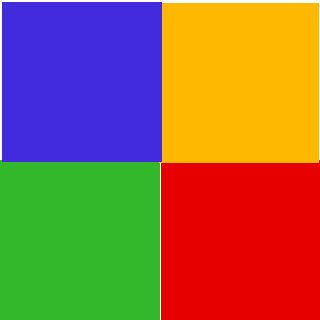
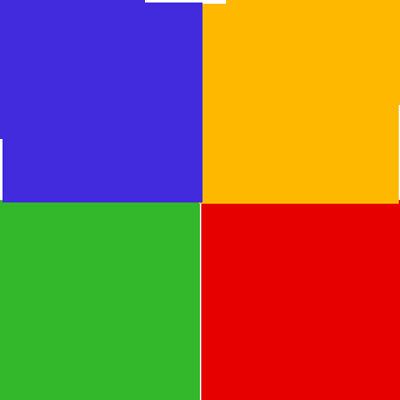
Hardware Integration Complete

Changed region(s): [[0.0, 0.0, 1.0, 1.0], [0.9688, 0.25, 1.0, 0.5312]]

diff --git a/cubeCns.py b/cubeCns.py
@@ -30,40 +30,41 @@ def matrixForm(Arduino) :
         camera.set(4,640)	#Width
 
         #Discard The First Few Frames
-        for i in range(0,5) :
+        for i in range(0,10) :
             retval,image = camera.read()
         del(camera)
         image = cv2.rotate(image,cv2.ROTATE_90_COUNTERCLOCKWISE)
-        cv2.imwrite(side + '_1raw.jpg',image)
+        image = image[100:500,40:440]
+        cv2.imwrite(side + '_raw.jpg',image)
 
-        image = cv2.imread(side + '_raw.jpg')
+        #image = cv2.imread(side + '_raw.jpg')
         b_ave=[float(0), float(0), float(0), float(0)]
         g_ave=[float(0), float(0), float(0), float(0)]
         r_ave=[float(0), float(0), float(0), float(0)]
 
-        for x in range(80,120) :
-            for y in range(80,120) :
-                b_ave[1]= b_ave[1] + (float(image[x, y, 0])/1600)
-                g_ave[1]= g_ave[1] + (float(image[x, y, 1])/1600)
-                r_ave[1]= r_ave[1] + (float(image[x, y, 2])/1600)
+        for x in range(0,100) :
+            for y in range(0,100) :
+                b_ave[1]= b_ave[1] + (float(image[x, y, 0])/10000)
+                g_ave[1]= g_ave[1] + (float(image[x, y, 1])/10000)
+                r_ave[1]= r_ave[1] + (float(image[x, y, 2])/10000)
 
-        for x in range(200,240) :
-            for y in range(80,120) :
-                b_ave[0]= b_ave[0] + (float(image[x, y, 0])/1600)
-                g_ave[0]= g_ave[0] + (float(image[x, y, 1])/1600)
-                r_ave[0]= r_ave[0] + (float(image[x, y, 2])/1600)
+        for x in range(300,400) :
+            for y in range(0,100) :
+                b_ave[0]= b_ave[0] + (float(image[x, y, 0])/10000)
+                g_ave[0]= g_ave[0] + (float(image[x, y, 1])/10000)
+                r_ave[0]= r_ave[0] + (float(image[x, y, 2])/10000)
 
-        for x in range(80,120) :
-            for y in range(200,240) :
-                b_ave[3]= b_ave[3] + (float(image[x, y, 0])/1600)
-                g_ave[3]= g_ave[3] + (float(image[x, y, 1])/1600)
-                r_ave[3]= r_ave[3] + (float(image[x, y, 2])/1600)
+        for x in range(0,100) :
+            for y in range(300,400) :
+                b_ave[3]= b_ave[3] + (float(image[x, y, 0])/10000)
+                g_ave[3]= g_ave[3] + (float(image[x, y, 1])/10000)
+                r_ave[3]= r_ave[3] + (float(image[x, y, 2])/10000)
                 
-        for x in range(200,240) :
-            for y in range(200,240) :
-                b_ave[2]= b_ave[2] + (float(image[x, y, 0])/1600)
-                g_ave[2]= g_ave[2] + (float(image[x, y, 1])/1600)
-                r_ave[2]= r_ave[2] + (float(image[x, y, 2])/1600)
+        for x in range(300,400) :
+            for y in range(300,400) :
+                b_ave[2]= b_ave[2] + (float(image[x, y, 0])/10000)
+                g_ave[2]= g_ave[2] + (float(image[x, y, 1])/10000)
+                r_ave[2]= r_ave[2] + (float(image[x, y, 2])/10000)
 
         for i in range(0,4):
             sort[i/2][i%2][1][0] = [b_ave[i], g_ave[i], r_ave[i]]
@@ -139,9 +140,14 @@ def matrixForm(Arduino) :
     # Rotate the cube to bring each side in front of the Camera.
     for side in cube_sides :
         print side
+
+        #Correctly Position The Cube
+        #For Up, Cube is already positioned with side grippers
+        if side != 'Up' :
+            if send_Ard(18)==0:
+                return
+        
         capt_proc(side)
-        #print mat[0][1][1][0], '  ', mat[1][1][1][0]
-        #print mat[0][0][1][0], '  ', mat[1][0][1][0], '\n'
         if side != 'Up' and side != 'Down':
             cubeRot.full('up', 1, mat)
             cubeRot.full('up', 1, sort)
@@ -171,12 +177,13 @@ def matrixForm(Arduino) :
             cubeRot.full('left', -1, sort)
             if send_Ard(2)==0:
                 return
-        #print mat[0][0][0][2], '  ', mat[0][0][1][2]
-        #print mat[1][0][0][2], '  ', mat[1][0][1][2], '\n'
-        print "Next\n"
+        #print "Next\n"
 
 
-    print sort
+    if send_Ard(18)==0:
+        return
+    #print sort
+
 
     # Group 5 colours of the cube
     for i in range (0,5) :
@@ -193,9 +200,10 @@ def matrixForm(Arduino) :
             asgn(i, 5)
 
     for i in range (0,24):
-        print m(i)
+        #print m(i)
         if i%3==2:
-            print "\n"
+            #print "\n"
+            next
 
     pair()
         
@@ -209,7 +217,7 @@ def matrixForm(Arduino) :
 
     pair()
                
-    print mat
+    #print mat
 
     with open('Matrix', 'wb') as comb:
         pickle.dump(mat, comb)

diff --git a/cubeSlv_main.py b/cubeSlv_main.py
@@ -5,7 +5,7 @@ def steps() :
     import cubeSlv_GraphIDA as IDA    
     
     from time import sleep
-    import serial    
+    import serial
     import pickle 
     
     #Arduino = serial.Serial("/dev/ttyUSB0", 115200)
@@ -28,11 +28,14 @@ def steps() :
     sleep(4)
 
     print "\nRESETTING GRIPPERS."
-    Arduino.write("*15#")
+    #Attach Servos and then Reset Grippers
+    Arduino.write("*<17<15#")
     
     
-    print "\nCONSTRUCTING CUBE ...\nPlease Display The Mentioned Sides To The Camera."
+    print "\nCONSTRUCTING CUBE ...\nCapturing Faces"
     Cube = cubeCns.matrixForm(Arduino)
+
+    
     with open('Matrix', 'rb') as comb:
         Cube=pickle.load(comb)
 
@@ -48,10 +51,15 @@ def steps() :
     
     solution="*"+"".join('<'+str(k) for k in Algo)+"<15#"
     print solution
+    
+      
     Arduino.write(solution)
     if Arduino.read(1)!='N':
         print "Cube not solved"
         return 0
+
+    #Detach All Servos
+    Arduino.write("*16#")
     
     print '\n*** Cube Solved ***'
 
